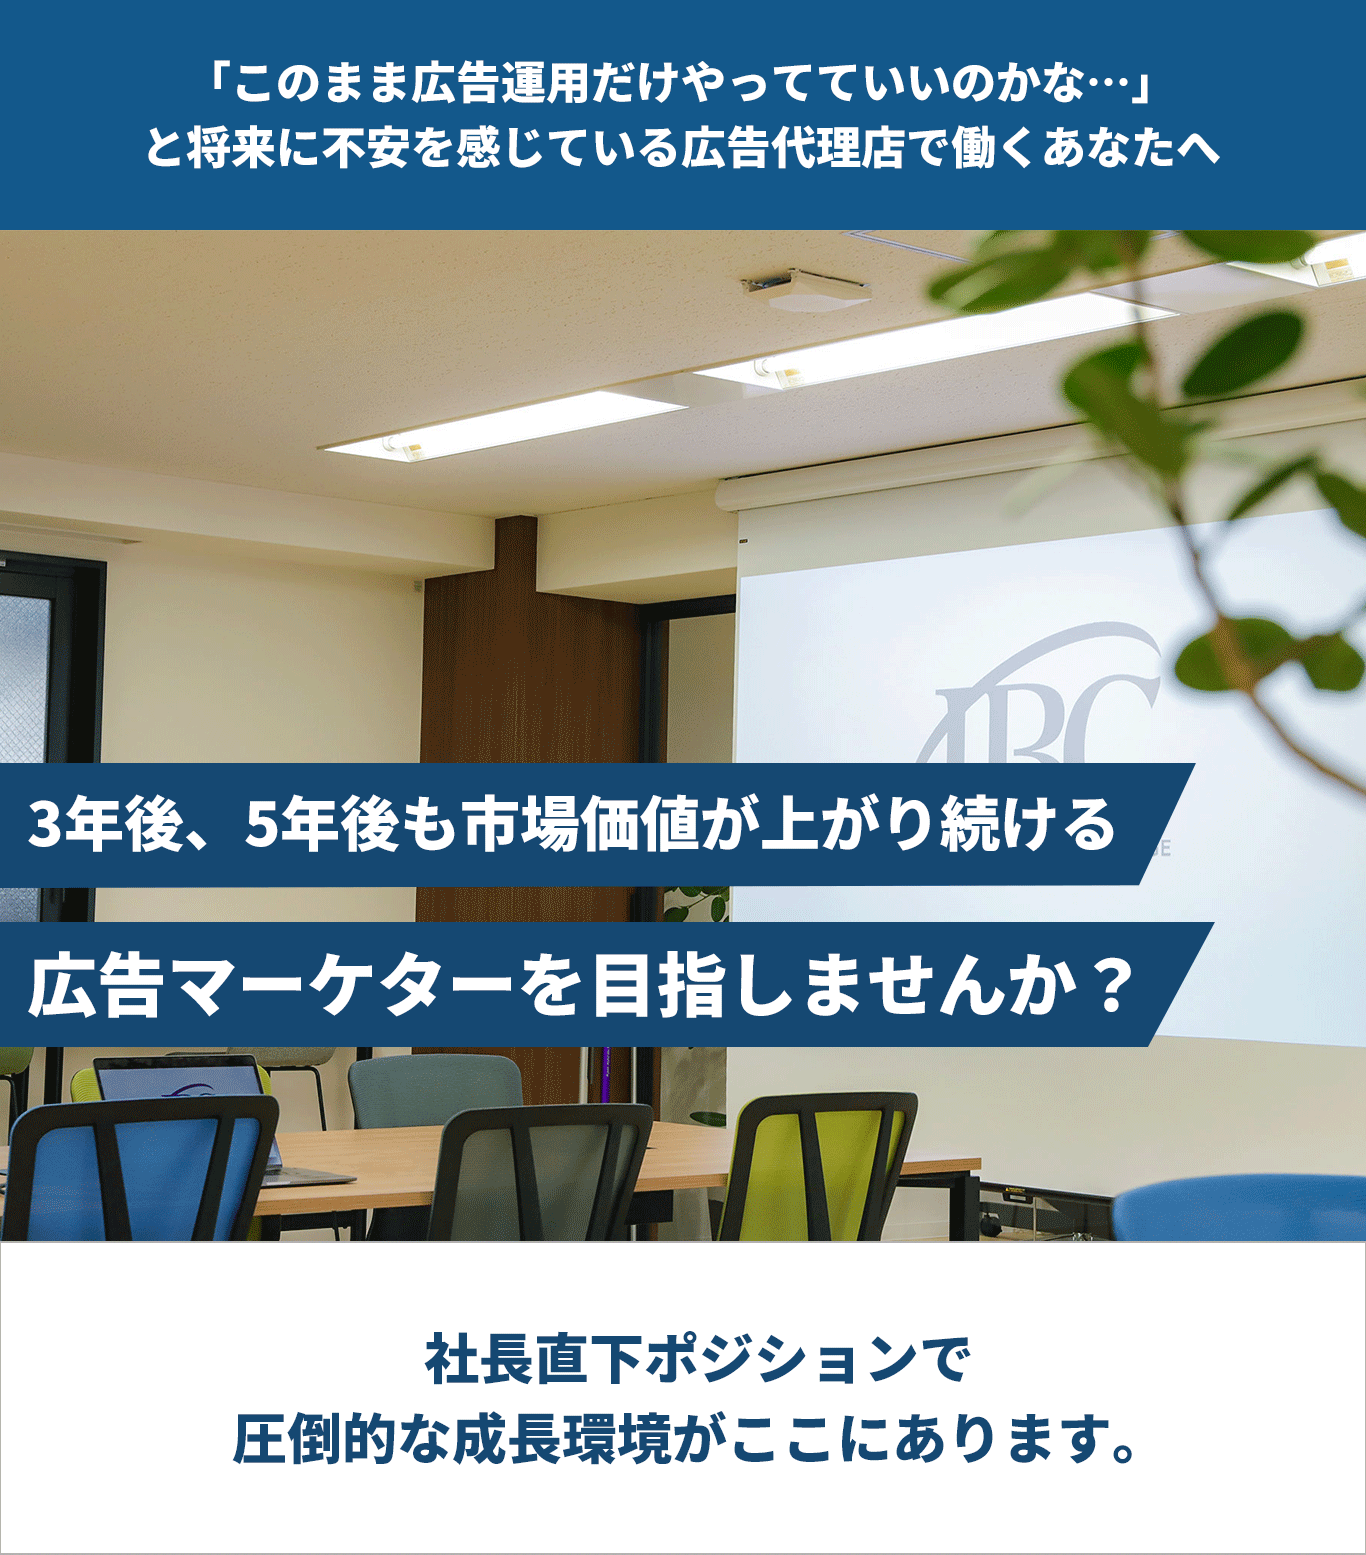
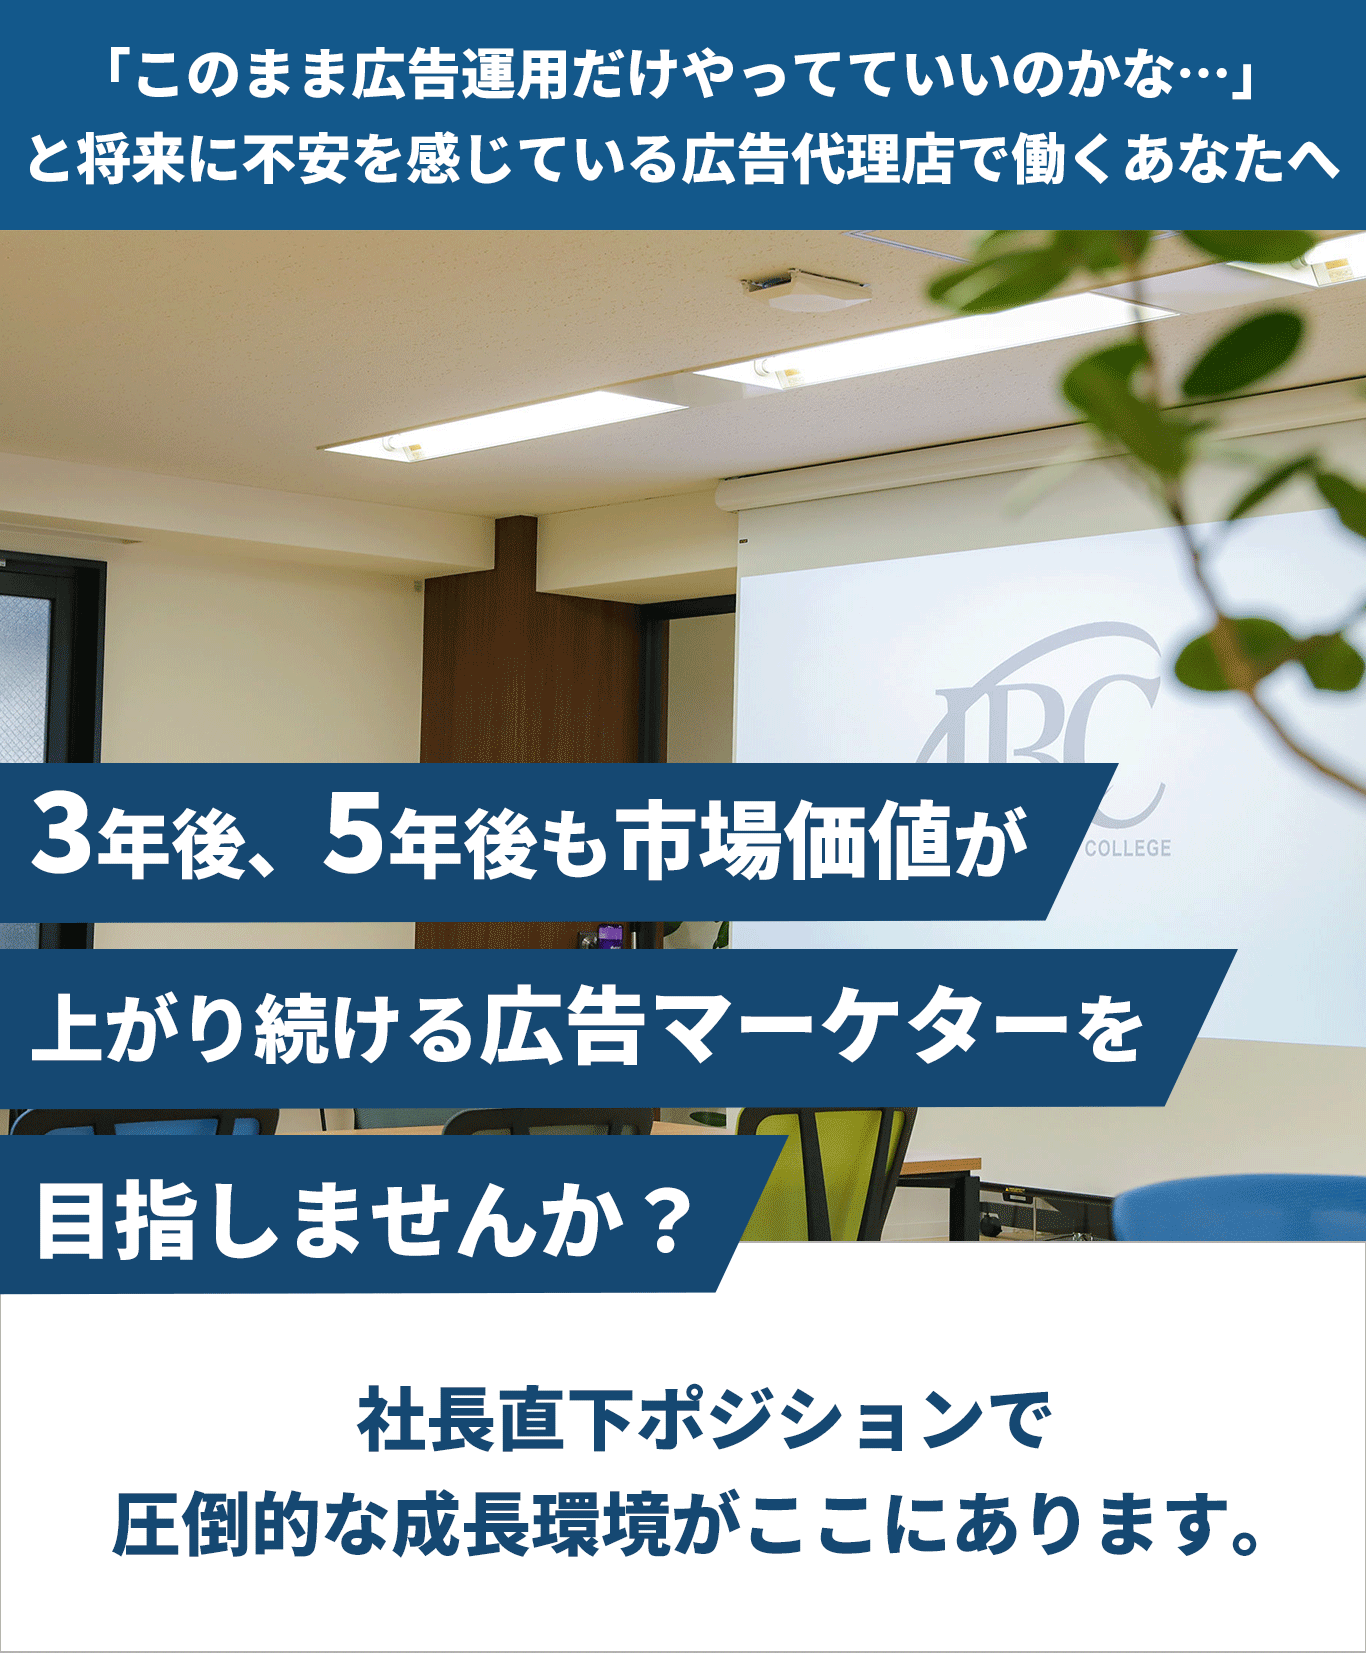
Add files via upload

diff --git a/style.css b/style.css
@@ -853,17 +853,17 @@
     }
 
     .column-narrow .content-in {
-      width: 1200px;
+      width: 1000px!important;
     }
 
     @media screen and (max-width:760px) {
       .column-narrow .content-in {
-        width: auto
+        width: auto!important;
       }
     }
 
     .toc-checkbox {
-      display: none
+      display: none;
     }
 
     .toc-content {
@@ -9114,7 +9114,7 @@
 
     .arrow_r_b {
       padding: 20px 0;
-      font-size: 20px;
+      font-size: 25px;
       width: 50%;
       letter-spacing: 1px !important;
       text-shadow: 1px 1px 3px #247017 !important;
@@ -9137,7 +9137,7 @@
       height: 0 !important;
       position: absolute !important;
       top: 50% !important;
-      right: 64px !important;
+      right: 46px !important;
       transform: translateY(-50%) !important;
     }
 
@@ -9302,7 +9302,7 @@
       padding: 10px 0px;
       margin: 50px 0 30px 0 !important;
       font-weight: 700 !important;
-      font-size: 20px !important;
+      font-size: 26px !important;
       padding: 1em 1.5em !important;
       margin: 10px 0 !important;
       border-radius: 3px !important;
@@ -9336,6 +9336,7 @@
 
     .mainkiji p {
       padding: 0px !important;
+      font-size: 20px;
     }
 
     @media screen and (max-width: 480px) {
@@ -9376,8 +9377,8 @@
     .arrow_r_b::before {
       content: '' !important;
       position: absolute !important;
-      top: 28% !important;
-      left: 480px;
+      top: 31% !important;
+      left: 400px;
       width: 32px !important;
       height: 32px !important;
       background-color: #f2f2f2 !important;
@@ -9421,6 +9422,9 @@
     .surround.boader {
       background: 0 0;
     }
+    .surround.boader li {
+      font-size: 20px;
+    }
 
     .surround {
       background: #f0e9a8;
@@ -9446,7 +9450,7 @@
       border-width: 3px 0 3px 0px;
       border-style: solid;
       line-height: 140%;
-      font-size: 1.1em;
+      font-size: 26px;
       font-weight: bold;
     }
 

diff --git a/index.html b/index.html
@@ -27,8 +27,8 @@
     </header>
     <div id="fv_img_wrap">
       <img class="alignnone size-large wp-image-4535 aligncenter lazy-loaded" src="img/fv_img.png" data-lazy-type="image"
-        data-src="img/fv_img.png" alt="" width="1200" height="1024" srcset="" data-srcset=""
-        sizes="(max-width: 1200px) 100vw, 683px">
+        data-src="img/fv_img.png" alt="" width="1000" height="1024" srcset="" data-srcset=""
+        sizes="(max-width: 1000px) 100vw, 683px">
     </div>
     <div id="content" class="content cf">
       <div id="content-in" class="content-in wrap">
@@ -55,12 +55,9 @@
               <div class="mainkiji w90">
                 <div class="surround boader ">
                   <ul>
-                    <li><strong>肩関節周囲炎急性期の夜間痛</strong></li>
-                    <li><strong>ドケルバン病</strong></li>
-                    <li><strong>シンスプリント</strong></li>
-                    <li><strong>上腕骨外側上顆炎（テニス肘）</strong></li>
-                    <li><strong>有痛性外脛骨</strong></li>
-                    <li><strong>アスリートが抱える体の痛み</strong></li>
+                    <li><strong>入札単価の調整</strong></li>
+                    <li><strong>ターゲティングの自動化</strong></li>
+                    <li><strong>広告クリエイティブの自動生成</strong></li>
                   </ul>
                 </div>
               </div>
